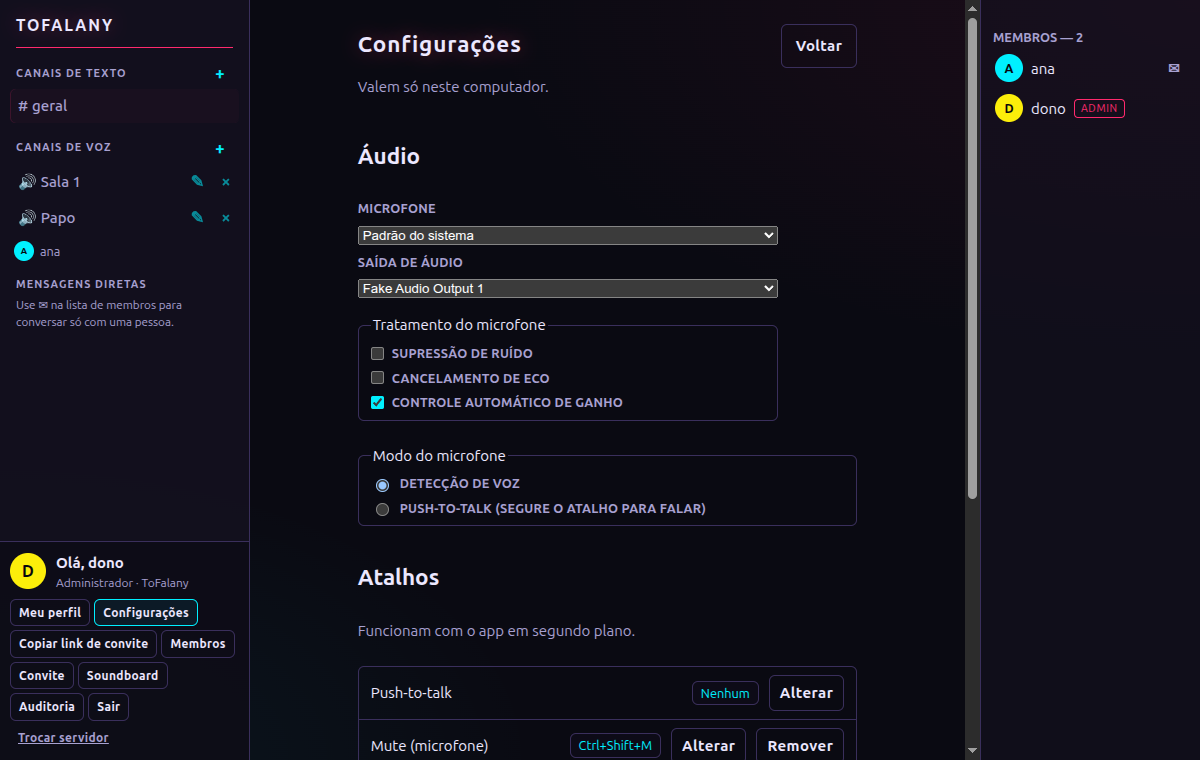
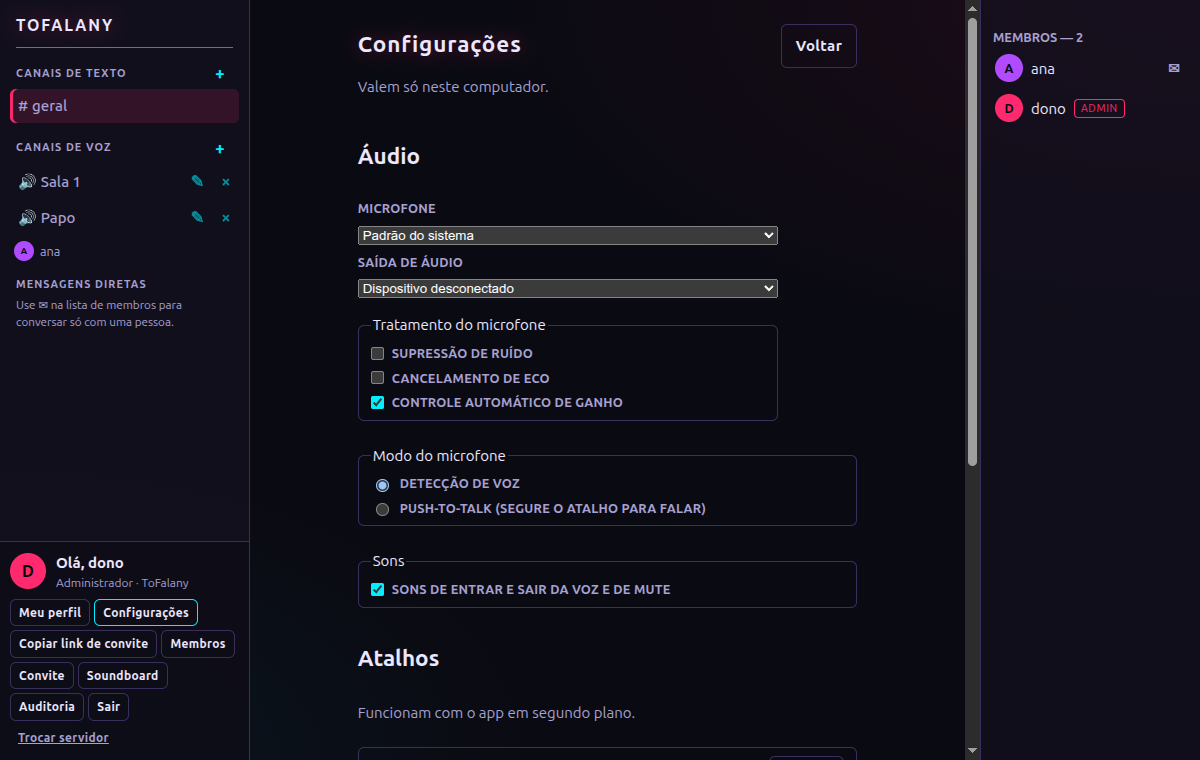
docs(T17): card, prints e marcação na fila

diff --git a/docs/demandas/to-falando-v1/cards/T17.html b/docs/demandas/to-falando-v1/cards/T17.html
@@ -1,0 +1,26 @@
+<!-- T17 — Volume por pessoa, silenciar pessoa e sons de voz -->
+<h3>Origem</h3>
+<p>Demanda to-falando-v1: RF-19, RF-21, RF-38, RN-26 e a parte de desligar os sons de voz do RF-41; CA-27, CA-29, CA-58.</p>
+<h3>Padrão</h3>
+<p>Técnica, seção "Status, silenciar e notificações (v5)": preferências locais por servidor; volume efetivo 0 para silenciados, preservando o escolhido.</p>
+
+<h3>Implementação (05/11/2026, commit a2d5604)</h3>
+<ul>
+  <li><b>Por pessoa</b>: botão "⋯" em quem está no meu canal (menos eu) abre volume 0–200% (aria-valuetext em %) e "Silenciar" (aria-pressed). Ícone "silenciado por você" só para mim; a pessoa não é avisada. Guardado em <code>config.pessoas[servidor]</code>, validado no processo principal (URL normalizada, até 20 servidores e 200 pessoas). Deafen tem prioridade e não apaga os volumes; acima de 100% usa o ganho do Web Audio (sem ele, limita a 100%).</li>
+  <li><b>Sons de voz</b> (<code>servicos/sons-voz.ts</code>): bipes gerados na hora — sobe para entrar/desmutar, desce para sair/mutar; tocam na saída escolhida (espera a troca de saída), não tocam durante o deafen, e nenhum erro de áudio atrapalha a voz. Desligáveis em Configurações → Sons.</li>
+  <li><b>Gravação</b>: uma gravação adiada única (sliders), com o servidor certo e descarga ao fechar a janela; a leitura do disco não desfaz um ajuste feito antes de ela chegar.</li>
+</ul>
+
+<h3>Testes</h3>
+<p><code>voz.test.ts</code>, <code>sons-voz.test.ts</code>, <code>componentes.test.tsx</code>, <code>validacao.test.ts</code>, <code>configuracoes.test.ts</code>; E2E <code>e2e/voz.spec.ts</code> (CA-27/29/58). Suíte: 314 testes e 22 E2E passando; lint e build verdes.</p>
+
+<h3>Validação (local, 05/11/2026)</h3>
+<table border="1" cellpadding="4">
+  <tr><th>Chamada</th><th>Status</th><th>Resultado</th></tr>
+  <tr><td>E2E CA-29: ana no canal; dono entra e sai</td><td>ok</td><td>sons "entrar" e "sair" na ana; com os sons desligados, nada</td></tr>
+  <tr><td>E2E CA-27: ana põe o dono em 150% e depois 50%</td><td>ok</td><td>volume 1,5 e 0,5 só na ana; no dono continua 1 (print T17-volume-por-pessoa)</td></tr>
+  <tr><td>E2E CA-58: ana silencia o dono e reabre o app</td><td>ok</td><td>volume 0 e ícone só para ela; depois de reabrir continua silenciado e reativar volta a 50% (print T17-silenciar-lembrado-apos-reabrir)</td></tr>
+</table>
+<p><b>A validar pelo usuário:</b> ouvir os sons e o volume acima de 100% de verdade; CA-27 com três pessoas (o E2E usa dois apps: prova que o ajuste é local).</p>
+<p><b>Observações:</b> com a detecção de voz da T16, o apito do microfone falso passa pelo RNNoise quase sem abrir o portão; os testes de fala desligam a supressão. Instabilidades vistas sob carga e anotadas para a T23: indicador de fala do LiveKit lento (os testes agora conferem antes o indicador local "Transmitindo") e uma abertura do Electron que falhou uma vez em <code>tempo-real.spec.ts</code>.</p>
+<p>Revisão: 11 achados (0 graves, 2 médios, 9 menores), todos corrigidos ou registrados.</p>
